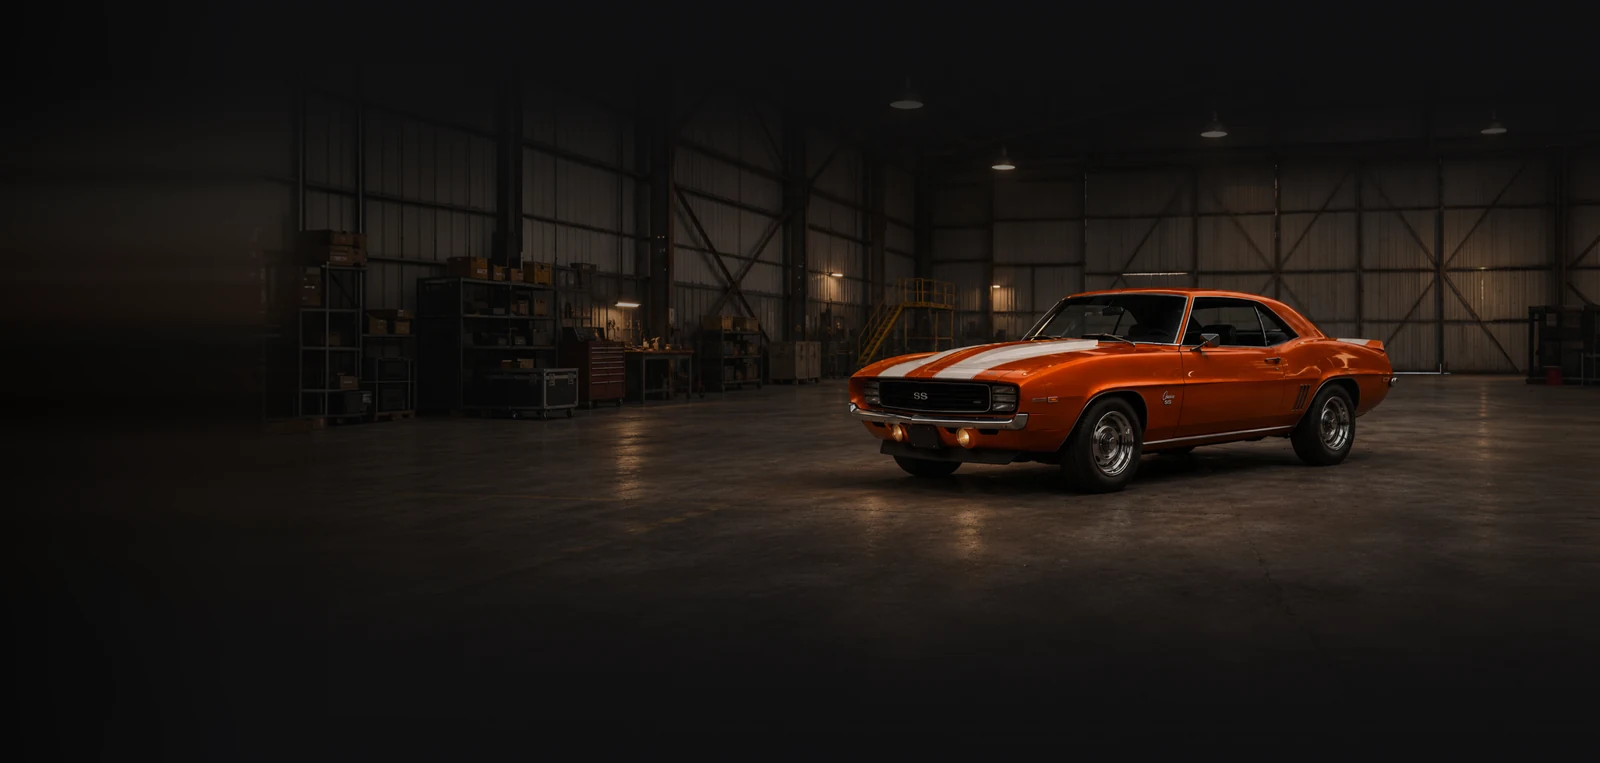
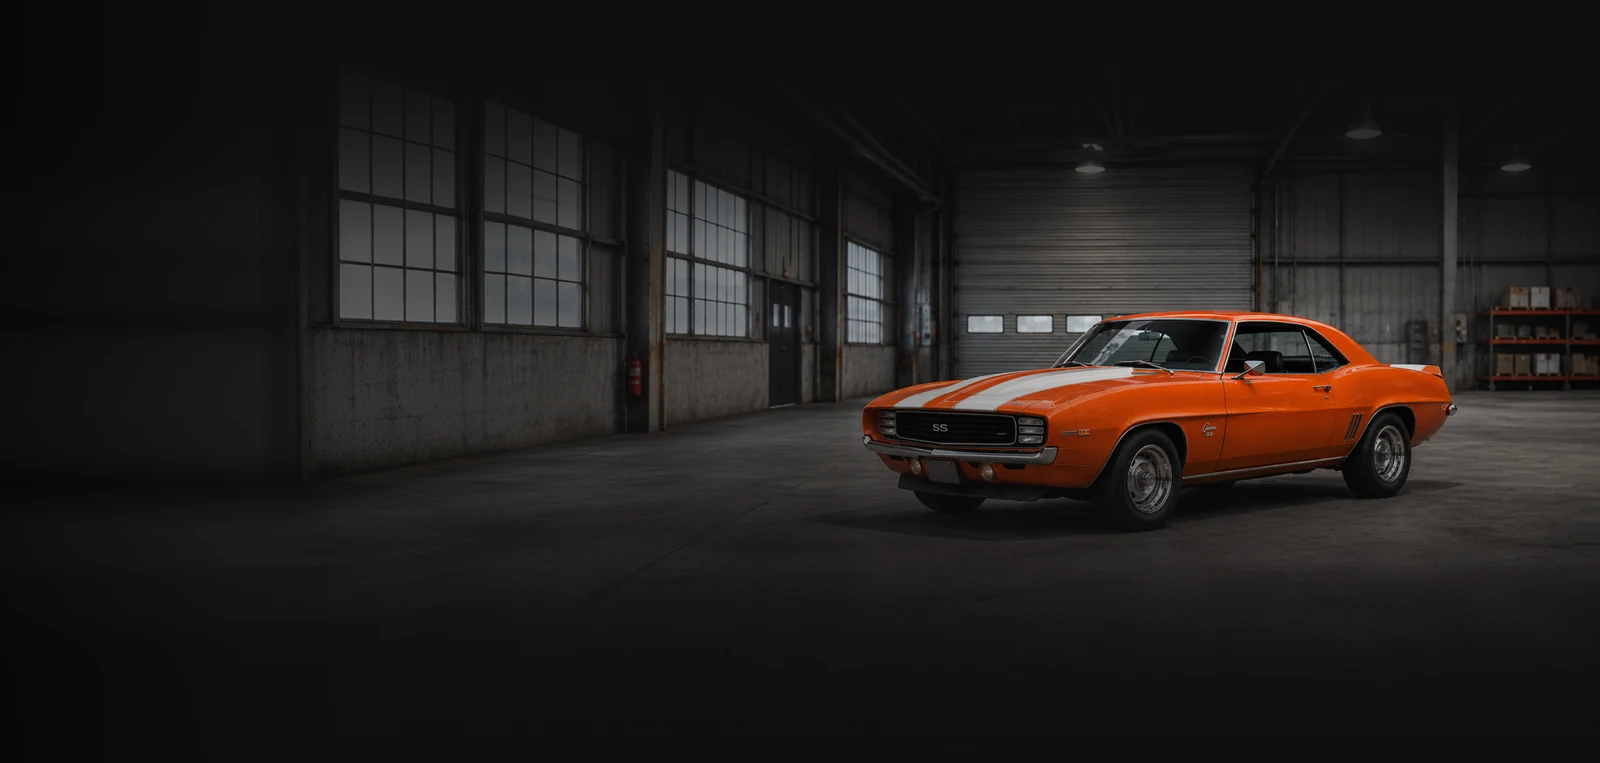
V2.2: Classics — Alex's new warehouse Camaro frame (00:23), extended left as before

diff --git a/src/data/photos.js b/src/data/photos.js
@@ -97,8 +97,8 @@ const photosV22 = {
   ...photosV2,
   classics: {
     ...photosV2.classics,
-    // Alex's own frame (LOGO/musclecar sectionm.jpg, 2026-11-10): the orange '69
-    // Camaro SS lit in a dark steel warehouse; the hangar continued 18% on the
+    // Alex's own frame (LOGO/musclecar sectionm.jpg, 2026-11-10 00:23): the orange '69
+    // Camaro SS lit in a dark warehouse with tall windows; the hangar continued 18% on the
     // left (edge tone, darkened) so the car sits at 53–87% of the width, clear
     // of the copy.
     file: 'classics-muscle-loft',
@@ -106,7 +106,7 @@ const photosV22 = {
     suffixLargest: true,
     width: 2265,
     height: 1080,
-    alt: 'An orange 1969 Chevrolet Camaro SS lit in a dark industrial warehouse.',
+    alt: 'An orange 1969 Chevrolet Camaro SS lit in a dark warehouse with tall windows.',
     focus: { mobile: '72% 55%', desktop: '50% 50%' },
   },
   footer: {

diff --git a/docs/ASSETS.md b/docs/ASSETS.md
@@ -143,7 +143,7 @@ Client ticket "nov changes 9th.pdf" (AAN #48798). V2.2 is a layer on top of V2; 
 | hero-gen-mustang-blue (-960/-1600/-2560) | AI-EDITED (fal-ai/nano-banana-pro/edit) from hero-gen-911-red: car swapped for a Grabber Blue 1969 Ford Mustang Mach 1 | cropped 16:9; ceiling softbox dimmed (under the header's type); car moved 6% right | $0.15 |
 | about-911-amg-studio (-1200 / 2803) | supplied by Alex (LOGO/about.jpg, 2026-11-09), red Porsche 911 + blue Mercedes-AMG GT, dark studio — **in use** | low-chroma pixels neutralised; studio extended L 6% / R 40% / top+bottom to 16:10 for air | — |
 | about-gen-911-amg (-1200 / 4155) | (superseded by about-911-amg-studio) AI-GENERATED (fal-ai/nano-banana-pro): red Porsche 911 + blue Mercedes-AMG GT, graphite studio, cars left of the panel | low-chroma pixels neutralised (blue cast off the walls, paint kept); studio extended L 6% / R 45% / T 16% / B 23% for air; floor vignette | $0.15 (+ $0.15 variant not used) |
-| classics-muscle-loft (-960/-1600/-2265) | supplied by Alex (LOGO/musclecar sectionm.jpg, 2026-11-10): orange 1969 Camaro SS in a dark steel warehouse | hangar extended 18% on the left (edge tone, darkened, feathered) so the car clears the copy | — |
+| classics-muscle-loft (-960/-1600/-2265) | supplied by Alex (LOGO/musclecar sectionm.jpg, 2026-11-10 00:23): orange 1969 Camaro SS in a dark warehouse with tall windows | hangar extended 18% on the left (edge tone, darkened, feathered) so the car clears the copy | — |
 | footer-loft (-1200 / -1920) | supplied by Alex (LOGO/footer image.jpg, 2026-11-09 23:42): five lit cars at varied angles in a dark industrial loft | cropped to a 1920×560 band (car row at 38–72%, reflections below) | — |
 | carloft-logo-horizontal / -horizontal-color / -vertical / -vertical-color / -name (.svg) | client vector masters, LOGO/ (Alex, 2026-11-09) | copied unchanged | — |
 | carloft-logo-*-glow.png | rendered from the masters in the browser (outer-contour neon) | currently switched off (Alex: "убери glow") | — |
